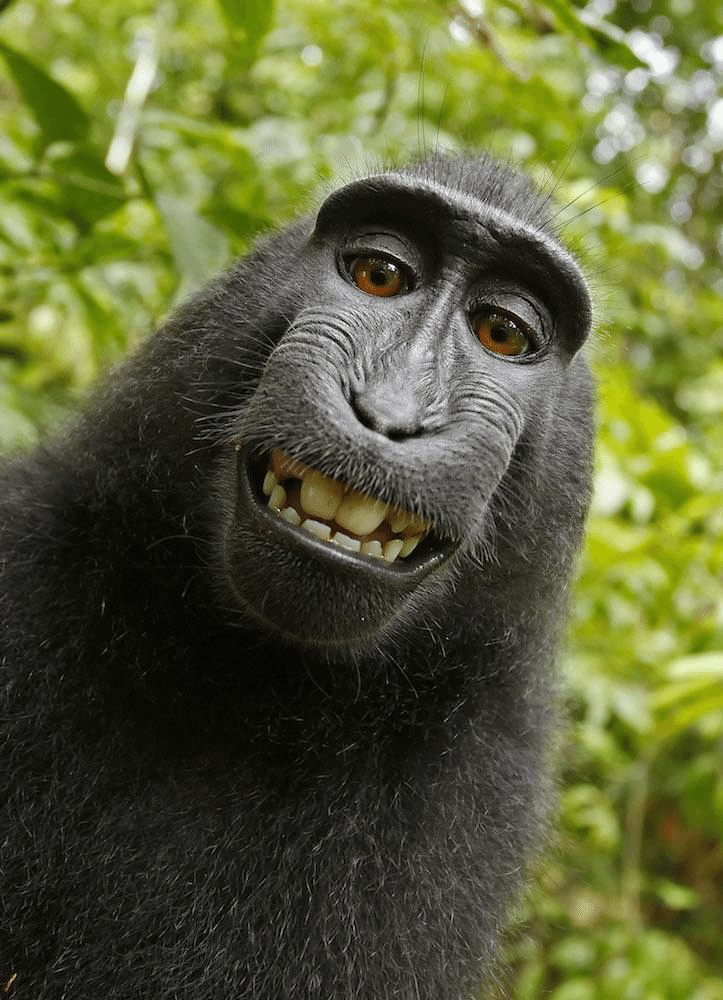
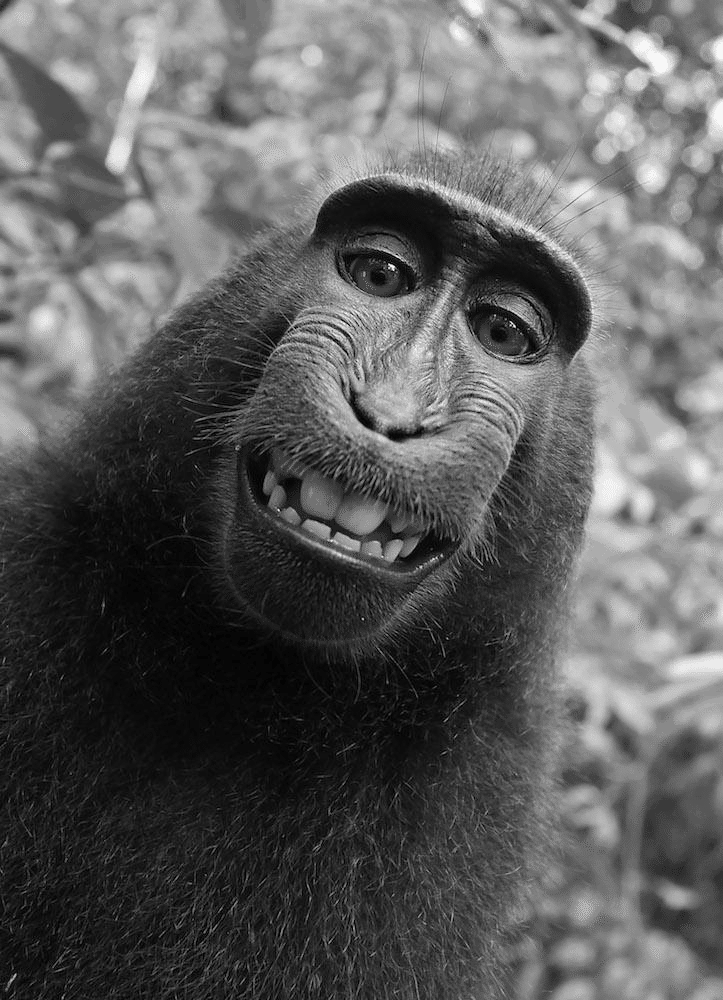
correct gray calculation

diff --git a/read/image.read.go b/read/image.read.go
@@ -8,7 +8,12 @@ import (
 	"github.com/sqweek/dialog"
 )
 
-func GetPath() string {
+func GetImageFromPath() (image.Image, error) {
+	filename := getPath()
+	return readImage(filename)
+}
+
+func getPath() string {
 	filename, err := dialog.File().Filter("PNG image file", "png").Load()
 	if err != nil {
 		panic(err)
@@ -16,7 +21,7 @@ func GetPath() string {
 	return filename
 }
 
-func ReadImage(filePath string) (image.Image, error) {
+func readImage(filePath string) (image.Image, error) {
 	f, err := os.Open(filePath)
 	if err != nil {
 		return nil, err

diff --git a/transform/grayScale.transform.go b/transform/grayScale.transform.go
@@ -6,9 +6,9 @@ import (
 	"math"
 )
 
-func convertToGray(r uint32, g uint32, b uint32) color.Gray {
+func convertToGray(r uint32, g uint32, b uint32) color.Gray16 {
 	avg := 0.2126*float64(r) + 0.7152*float64(g) + 0.0722*float64(b)
-	return color.Gray{uint8(math.Round(avg))}
+	return color.Gray16{uint16(math.Round(avg))}
 }
 
 func ConverToGray(img image.Image) *image.Gray {
@@ -23,5 +23,5 @@ func ConverToGray(img image.Image) *image.Gray {
 			gray.Set(x, y, grayColor)
 		}
 	}
-	return gray;
+	return gray
 }

diff --git a/write/write.go b/write/write.go
@@ -10,10 +10,9 @@ import (
 func WriteImage(img image.Image, locationPath string) {
 	file := fmt.Sprintf("%s/result.png", locationPath)
 	outfile, err := os.Create(file)
+	defer outfile.Close()
 	if err != nil {
-		// replace this with real error handling
 		panic(err.Error())
 	}
-	defer outfile.Close()
 	png.Encode(outfile, img)
 }

diff --git a/main/main.go b/main/main.go
@@ -9,8 +9,7 @@ import (
 
 func main() {
 	fmt.Print("Read your File...")
-	filename := read.GetPath()
-	image, _ := read.ReadImage(filename)
+	image, _ := read.GetImageFromPath()
 	greyImage := transform.ConverToGray(image)
-	write.WriteImage(image, "results")
+	write.WriteImage(greyImage, "results")
 }
